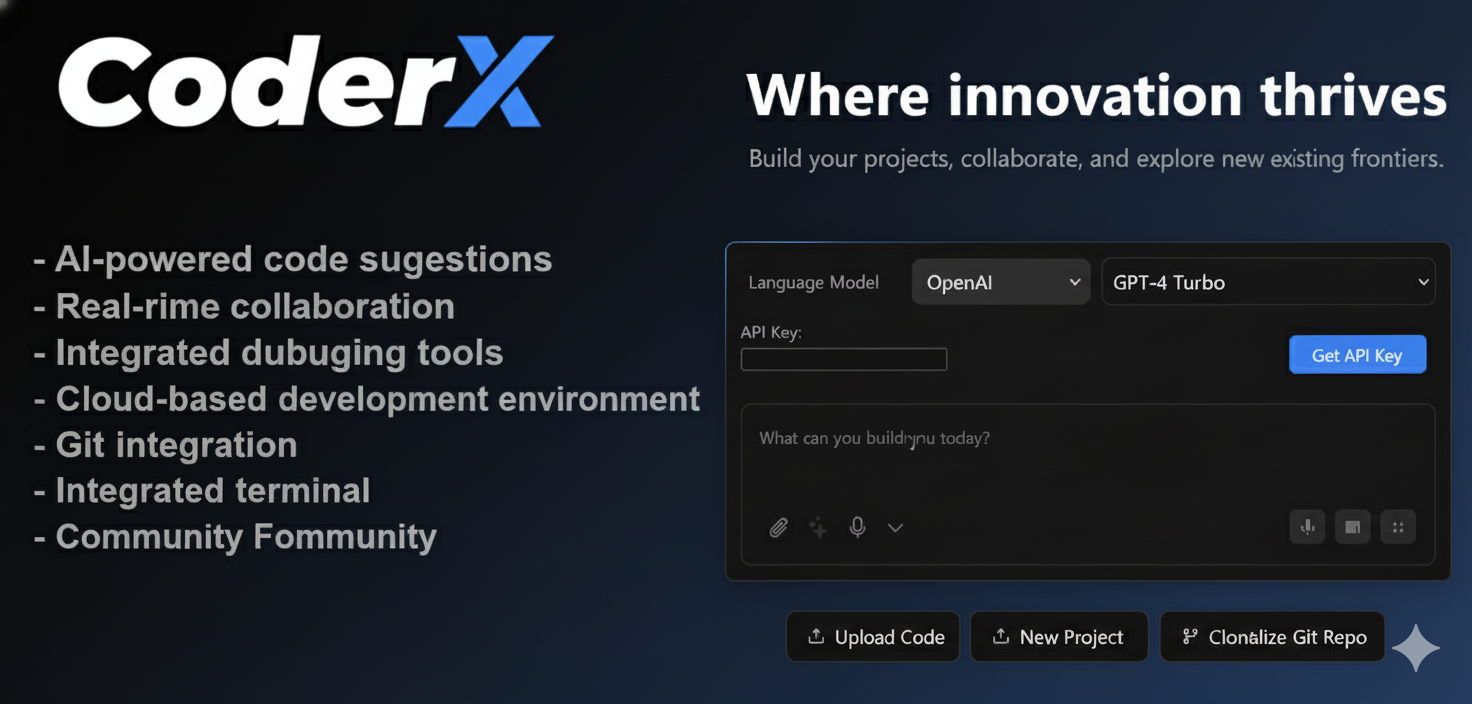
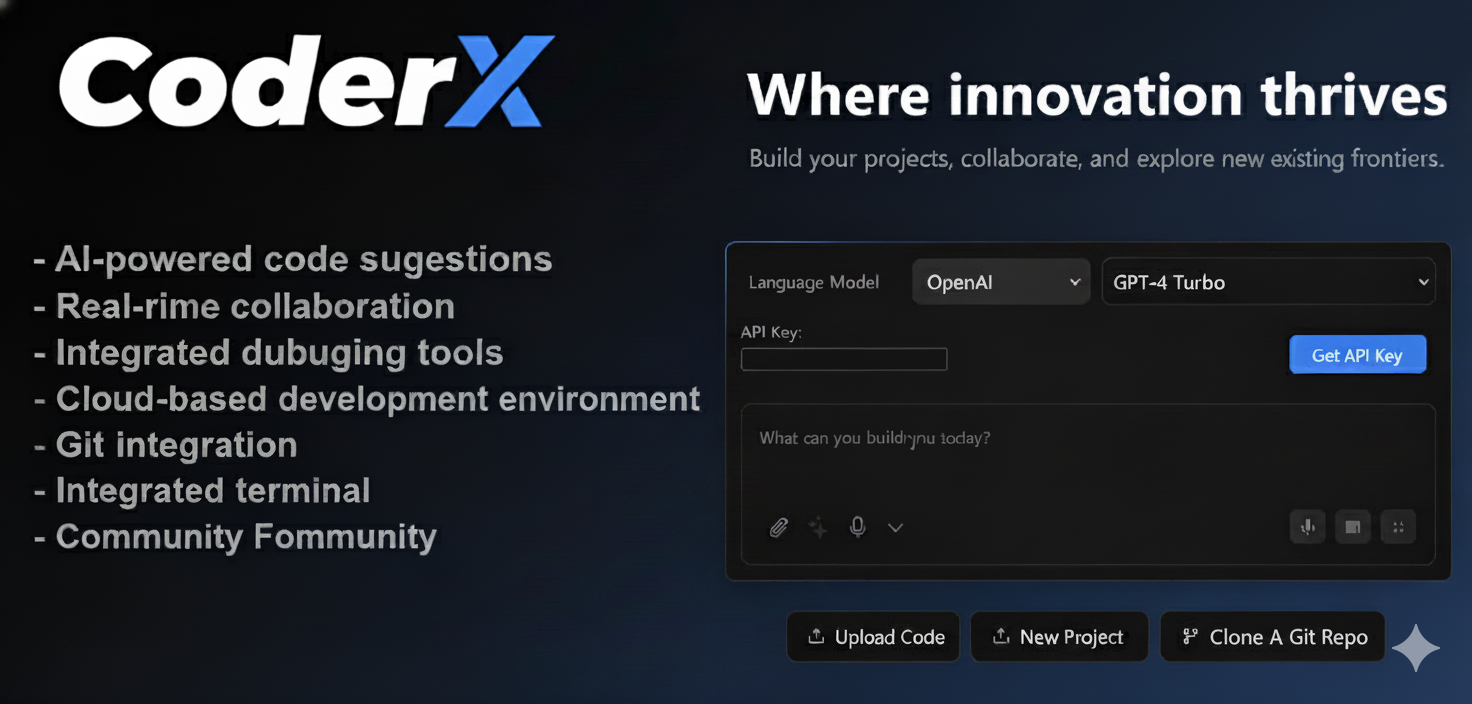
Update social preview image with new CoderX design
🖼 New Social Preview Image:
- Updated social_preview_index.jpg with fresh CoderX branding
- Shows beautiful dark theme with proper CoderX logo
- Features list: AI-powered code suggestions, real-time collaboration, debugging tools
- Interactive panel with Language Model selection and API key input
- Professional presentation with blue accents and modern design
- Clean, developer-friendly interface preview

🎨 Design Features:
- CoderX logo with stylized blue 'X'
- Tagline: 'Where innovation thrives'
- Sub-heading: 'Build your projects, collaborate, and explore new existing frontiers'
- Interactive elements: Upload Code, New Project, Clone A Git Repo buttons
- Modern dark theme with white text and blue accents

🔧 README Cleanup:
- Removed cache-busting parameter (?v=2) from image URL
- Clean image reference for optimal GitHub display
- Professional presentation ready for repository

✅ Repository Enhancement:
- High-quality social preview for GitHub repository
- Professional branding that attracts developers
- Clear feature showcase for potential users
- Perfect representation of CoderX platform

diff --git a/README.md b/README.md
@@ -1,4 +1,4 @@
-[![CoderX: AI-Powered Development Platform](./public/social_preview_index.jpg?v=2)](https://github.com/Suryanshu-Nabheet/CoderX)
+[![CoderX: AI-Powered Development Platform](./public/social_preview_index.jpg)](https://github.com/Suryanshu-Nabheet/CoderX)
 
 <div align="center">
 
